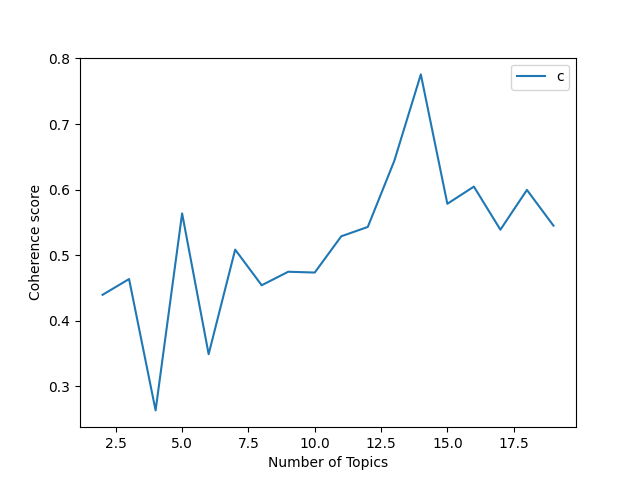
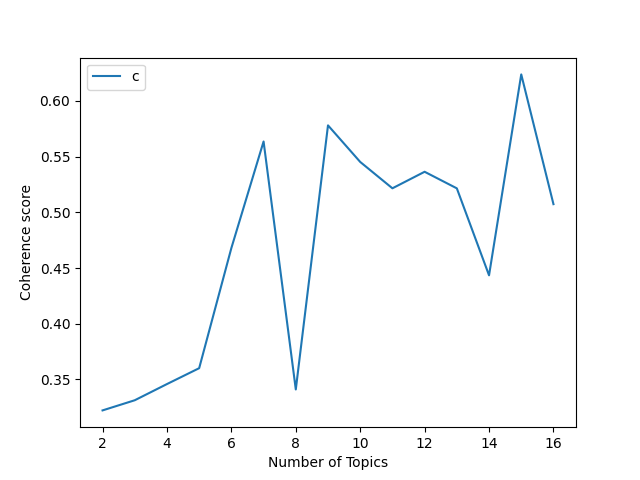
shit cleaning

diff --git a/Ukrainian_TopicModeling/lda_gensim.py b/Ukrainian_TopicModeling/lda_gensim.py
@@ -6,13 +6,10 @@ import pandas as pd
 from scipy.sparse import csc_matrix
 from sklearn.cluster import KMeans
 import umap.umap_ as umap
-from sklearn.manifold import TSNE
-from bokeh.plotting import figure, show
-import matplotlib.colors as mcolors
 import numpy as np
 
-from preprocessor import preprocess_normalized, preprocess_with_lemmatization
-from vectorizer import vectorize_corpus_tf_idf, vectorize_corpus_word_to_vec
+from preprocessor import preprocess_with_lemmatization
+from vectorizer import vectorize_corpus_tf_idf
 
 SOME_FIXED_SEED = 42
 
@@ -26,7 +23,7 @@ def create_gensim_lda_model(document_term_matrix, corpus_dictionary, number_of_t
                              num_topics=number_of_topics,
                              random_state=SOME_FIXED_SEED,
                              chunksize=10,
-                             passes=1,
+                             passes=3,
                              alpha=0.01,
                              eta=0.9)
     pprint(lda_model.print_topics())
@@ -41,7 +38,7 @@ def compute_coherence_values(dct, corpus, texts, limit, start=2, step=3):
     model_list = []
     for num_topics in range(start, limit, step):
         model = LdaMulticore(corpus=corpus, id2word=dct, num_topics=num_topics, random_state=SOME_FIXED_SEED,
-                             chunksize=10, passes=1, alpha=0.01, eta=0.9)
+                             chunksize=10, passes=3, alpha=0.01, eta=0.9)
         model_list.append(model)
         coherence_model = CoherenceModel(model=model, texts=texts, dictionary=dct, coherence='c_v')
         coherence_values.append(coherence_model.get_coherence())
@@ -59,7 +56,7 @@ def plot_graph(doc_clean, start, stop, step):
     plt.xlabel("Number of Topics")
     plt.ylabel("Coherence score")
     plt.legend("coherence_values", loc='best')
-    plt.savefig('./resulting_plots/coherence_measure_graph_lda_lemmatized.png')
+    plt.savefig('./resulting_plots/lda/coherence_measure_graph_lda_lemmatized.png')
 
 
 def get_vectorized_sparse_matrix(gensim_vectorized, dct, num_of_topics):
@@ -68,7 +65,7 @@ def get_vectorized_sparse_matrix(gensim_vectorized, dct, num_of_topics):
                              num_topics=num_of_topics,
                              random_state=SOME_FIXED_SEED,
                              chunksize=10,
-                             passes=1,
+                             passes=3,
                              alpha=0.01,
                              eta=0.9)
     df = pd.DataFrame(lda_model.get_document_topics(gensim_vectorized, minimum_probability=0.0, per_word_topics=False))
@@ -96,21 +93,21 @@ def plot_clusters_with_topics(topics_matrix, clusters):
                 c=clusters,
                 s=10,  # size
                 edgecolor='none')
-    plt.savefig('./resulting_plots/topics_clustering_graph_lda_lemmatized.png')
+    plt.savefig('./resulting_plots/lda/topics_clustering_graph_lda_lemmatized.png')
 
 
 if __name__ == "__main__":
     clean_text = preprocess_with_lemmatization()
 
     # create baseline model for LDA topic modeling
-    dictionary, term_doc_matrix = vectorize_corpus_word_to_vec(clean_text)
+    dictionary, term_doc_matrix = vectorize_corpus_tf_idf(clean_text)
     base_model = create_gensim_lda_model(term_doc_matrix, dictionary, 5)
 
     # hyperparameter tuning
     # compute coherence score for different number of topics and plot graph with results
-    # plot_graph(clean_text, 2, 21, 1)
+    # plot_graph(clean_text, 2, 17, 1)
 
-    optimal_number_of_topics = 5
+    optimal_number_of_topics = 15
     #
     # # create final model with optimized number of topics and visualize with the help of clusters ans UMAP
     # x_topics, tf_idf_sparse = get_vectorized_sparse_matrix(term_doc_matrix, dictionary, optimal_number_of_topics)
@@ -121,7 +118,7 @@ if __name__ == "__main__":
     # Get topic weights and dominant topics ------------
 
     # n-1 rows each is a vector with i-1 positions, where n the number of documents
-    # i the topic number and tmp[i] = probability of topic i
+    # # i the topic number and tmp[i] = probability of topic i
     topic_weights = []
     for row_list in base_model[term_doc_matrix]:
         tmp = np.zeros(5)
@@ -131,9 +128,10 @@ if __name__ == "__main__":
 
     # Array of topic weights
     arr = pd.DataFrame(topic_weights).fillna(0).values
+    print(arr.shape)
     cluster_labels = create_k_means_model(optimal_number_of_topics, corpus2csc(term_doc_matrix).transpose())
     plot_clusters_with_topics(arr, cluster_labels)
-    print(arr.shape)
+
 
     # # # Keep the well separated points (optional)
     # # # arr = arr[np.amax(arr, axis=1) > 0.01]

diff --git a/Ukrainian_TopicModeling/lsa_gensim.py b/Ukrainian_TopicModeling/lsa_gensim.py
@@ -51,7 +51,7 @@ def plot_graph(doc_clean, start, stop, step):
     plt.xlabel("Number of Topics")
     plt.ylabel("Coherence score")
     plt.legend("coherence_values", loc='best')
-    plt.savefig('./resulting_plots/coherence_measure_graph_lsa_normalized.png')
+    plt.savefig('./resulting_plots/lsa/coherence_measure_graph_lsa_normalized.png')
 
 
 def get_vectorized_sparse_matrix(gensim_vectorized, dct, num_of_topics):
@@ -83,7 +83,7 @@ def plot_clusters_with_topics(topics_matrix, clusters):
                 c=clusters,
                 s=10,  # size
                 edgecolor='none')
-    plt.savefig('./resulting_plots/topics_clustering_lsa_normalized.png')
+    plt.savefig('./resulting_plots/lsa/topics_clustering_lsa_normalized.png')
 
 
 if __name__ == "__main__":
@@ -102,5 +102,4 @@ if __name__ == "__main__":
     # create final model with optimized number of topics and visualize with the help of clusters and UMAP
     x_topics, tf_idf_sparse = get_vectorized_sparse_matrix(term_doc_matrix, dictionary, optimal_number_of_topics)
     cluster_labels = create_k_means_model(optimal_number_of_topics, tf_idf_sparse)
-    # plot_clusters_with_topics(x_topics, cluster_labels)
-    print(x_topics.shape, tf_idf_sparse.shape)
+    plot_clusters_with_topics(x_topics, cluster_labels)

diff --git a/Ukrainian_TopicModeling/preprocessor.py b/Ukrainian_TopicModeling/preprocessor.py
@@ -99,8 +99,12 @@ def preprocess_with_lemmatization():
     loaded_corpus = load_data()
     normalized = normalize(loaded_corpus)
     lemmas = lemmatizer(normalized)
-    # uncomment for Gensim LSI
-    return lemmas
+    # reclean text after lemmatization
+    res_lemmas = []
+    for sample in lemmas:
+        remove_d = remove_digits(sample)
+        res_lemmas.append(remove_punctuation(remove_d))
+    return res_lemmas
     # uncomment for sklearn truncated SVD
     # return [" ".join(elem) for elem in lemmas]
 
@@ -118,4 +122,4 @@ def preprocess_normalized():
 
 
 if __name__ == "__main__":
-    preprocess_normalized()
+    print(preprocess_with_lemmatization())
